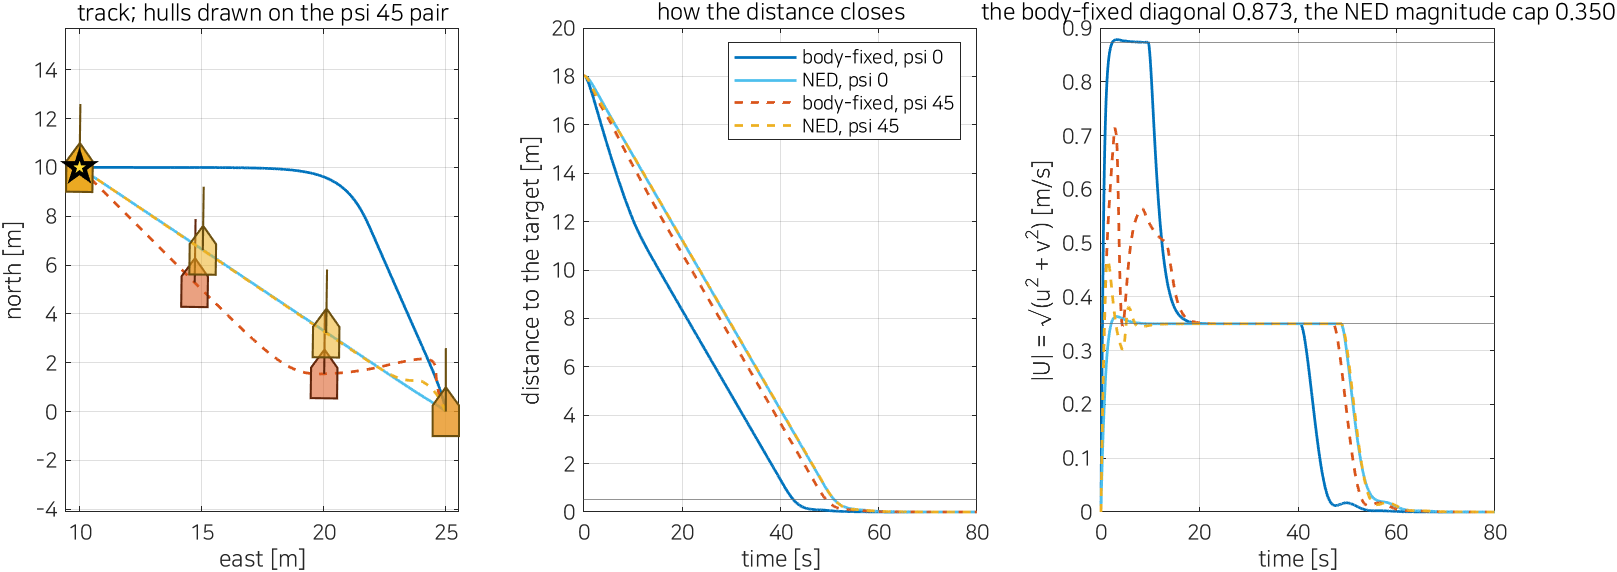
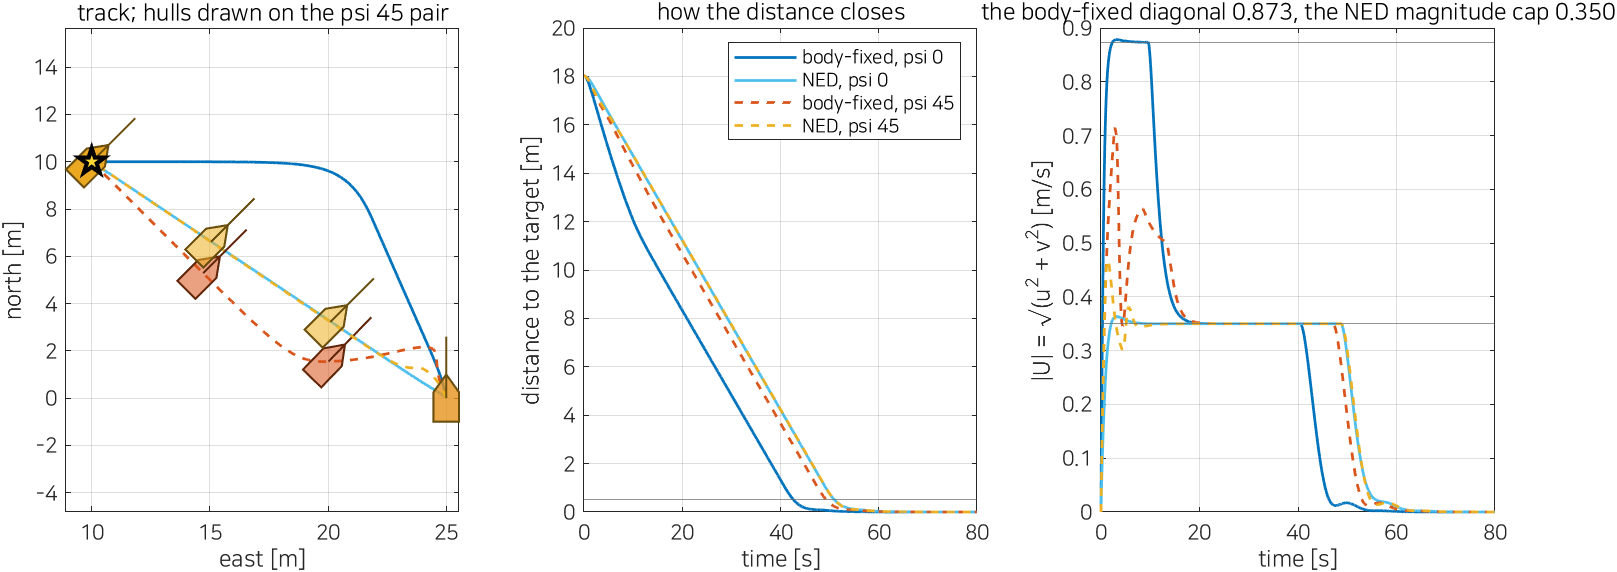
Sections 6-5 and 6-6, and the hull heading the figures had been hiding
W06_G_berthing runs the four-phase mission twice, alongside and bow-first,
and measures what the attitude costs and buys: phase 1 is identical in both
columns at 53.04 s because psi_berth is not read until phase 2; the ALIGN leg
costs bow-first 2.88 s extra for 67.6 deg instead of 22.4 deg; the BERTH leg
gives 11.54 s back, and the 8.66 s total gap is exactly that difference. The
section 6-4 braking law predicts 24.15 s against 23.00 s measured and 12.16 s
against 11.46 s. Phase 3 separates the two attitudes completely: alongside is
sway-limited at the 35.13 N cap, bow-first is surge-limited at 120.00 N.

track_ships takes psi in DEGREES and converts internally before calling
draw_ship, which takes radians. The logged psi is already in degrees, because
add_measurement puts the 180/pi gain on the psi row alone. Four call sites
were multiplying by pi/180 first, so every hull was drawn at a 57th of its
true angle and pointed north in every case. W06_plot carried a comment
asserting the opposite, which is how the error reached the other three
scripts; the comment is now what the code does. With the conversion gone the
sway-only run shows the crab, the yaw-only run visibly spins through 184 deg,
the moored hulls differ by the 90 deg that section 6-6 exists to demonstrate,
and the psi 45 pair leans into its heading.

The berth star is drawn after the hull glyphs, small: the two runs stop on
that point, so a marker underneath them disappears and a large one buries a bow.

diff --git a/lectures/W06_simulink/W06_G_berthing.m b/lectures/W06_simulink/W06_G_berthing.m
@@ -1,0 +1,194 @@
+%% W06 · 실험 6-5/6-6 — 단계로 접안한다 / Experiment 6-5/6-6 — berthing, phase by phase
+%
+%  이 절이 묻는 것 / the question
+%      6-3 절의 고리 셋은 **한 점**을 잡는다. 접안은 점 하나가 아니다 — 먼 바다에서
+%      접근점까지 가고, 거기서 돌고, 그 선수각을 지킨 채 벽으로 붙고, 붙은 뒤에는
+%      추력을 끊어야 한다. 제어기를 한 줄도 고치지 않고 **목표점과 선수각을 언제
+%      바꿔 줄 것인가**만 정하는 블록 하나로 그것이 되는가? 그리고 벽에 **옆으로**
+%      붙는 것과 **뱃머리부터** 붙는 것은 무엇이 다른가?
+%      The three loops of Section 6-3 hold ONE point. Berthing is not one point:
+%      the hull must run to an approach point, turn there, close the last metres
+%      on that heading, and then cut the thrust. This section asks whether a
+%      single block that decides WHEN to move the target and the heading is
+%      enough, with not one gain touched -- and what separates coming in
+%      sideways from coming in bow-first.
+%
+%  이 스크립트가 하는 일 / what this script does
+%      ① W06_H_berth 를 두 번 돌린다. 달라지는 것은 psi_berth 하나다 —
+%         0 도(옆으로 붙는다)와 -90 도(뱃머리부터 붙는다).
+%      ② 네 단계가 각각 언제 시작해 얼마나 걸렸는지, 그때 배가 어디 있었는지를
+%         단계마다 한 줄로 낸다.
+%      ③ 두 접안 자세를 한 표로 견준다 — 다리별 시간, **3 단계에서만** 재는 전후·
+%         좌우 요구와 포화 비율, 마지막 거리, 계류 뒤의 떠내림.
+%      ① Runs W06_H_berth twice. One thing differs: psi_berth, 0 deg (alongside)
+%         and -90 deg (bow into the wall).
+%      ② Prints one line per phase: when it began, how long it lasted, and where
+%         the hull was at that instant.
+%      ③ Tables the two attitudes against each other -- the time in each leg,
+%         the surge and sway demands measured OVER PHASE 3 ALONE and how much of
+%         that leg sat on the sway cap, the distance left, and the drift after
+%         the gate closes.
+%
+%  출력에서 볼 것 / what to look for in the output
+%      · 1 단계는 **두 경우가 같다** — 53.04 s. psi_berth 는 2 단계부터 비로소
+%        쓰이므로, 두 열의 차이는 전부 뒤쪽 두 다리에서 나온다
+%      · 넘어가는 순간 d 가 **1.49 m 에서 7.28 m 로 뛴다.** 배가 뒤로 간 것이
+%        아니라 목표점이 접근점에서 안벽으로 바뀐 것이다. 제어기는 그대로다
+%      · 2 단계: 2.62 s 대 5.50 s. 뱃머리부터 붙으려면 67.6 도를 더 돌아야 하고
+%        그 값이 2.88 s 다
+%      · 3 단계: 23.00 s 대 11.46 s. 옆으로 붙는 쪽은 7.28 m 를 **좌우로** 가며
+%        35.13 N 포화에 눌려 있고, 뱃머리 쪽은 7.06 m 를 **전후로** 가며 120 N 을
+%        쓴다. 11.54 s 가 거기서 갈린다
+%      · 합: 78.66 s 대 70.00 s. 차이 8.66 s = 11.54 - 2.88 로 **정확히** 맞는다
+%      · 둘 다 R_berth = 0.40 m 안에서 멈추고 선수각 오차는 0.00 도다.
+%        4 단계에서 gate 가 0 이 되면 속도 명령이 0 이고, 남은 시간 내내 떠내림은
+%        센티미터 급이다
+%      · Phase 1 is IDENTICAL in both columns -- 53.04 s. psi_berth is not read
+%        until phase 2, so every difference comes from the last two legs.
+%      · At the hand-over d JUMPS from 1.49 m to 7.28 m. The hull did not move
+%        backwards; the target was replaced, approach point by berth. Not one
+%        gain changed.
+%      · Phase 2: 2.62 s against 5.50 s. Bow-first must turn 67.6 deg further,
+%        and that costs 2.88 s.
+%      · Phase 3: 23.00 s against 11.46 s. Alongside crosses the last 7.28 m
+%        SIDEWAYS, pinned on the 35.13 N sway cap; bow-first crosses 7.06 m
+%        AHEAD on 120 N. That is where 11.54 s is won.
+%      · Totals: 78.66 s against 70.00 s. The 8.66 s gap is 11.54 - 2.88 exactly.
+%      · Both stop inside R_berth = 0.40 m with 0.00 deg of heading error. Once
+%        the gate drops to 0 in phase 4 the velocity command is zero and the
+%        hull drifts only centimetres for the rest of the run.
+%
+%  만드는 것 / produces: img/W06_result_berth.png
+
+%% 0) 경로 / paths
+here = fileparts(mfilename('fullpath'));
+addpath(fullfile(fileparts(fileparts(here)), '_tools'), here);
+
+V  = W06_vars();
+PH = {'1 TRANSIT', '2 ALIGN', '3 BERTH', '4 MOORED'};
+C  = {'alongside', 0,     [0 0.45 0.74]
+      'bow-first', -pi/2, [0.85 0.33 0.10]};
+n  = size(C,1);
+Rs = cell(n,1);   TE = nan(n,4);   DUR = nan(n,4);
+
+%% 1) 네 단계 / the four phases
+fprintf(['\n  W06 Experiment 6-5/6-6  berthing at (%g, %g) m from (%g, %g) m,' ...
+         ' approach point (%g, %g) m\n'], V.berth_N, V.berth_E, V.x0(7), V.x0(8), ...
+        V.app_N, V.app_E);
+for i = 1:n
+    Rs{i} = W06_read('W06_H_berth', 'psi_berth', C{i,2}, ...
+                     'bow_on', double(C{i,2} ~= 0), 'T_final', 150);
+    R = Rs{i};
+    fprintf(['\n    %s, psi_berth = %+.0f deg\n' ...
+             '    phase        enters [s]   lasts [s]   N [m]   E [m]   psi [deg]' ...
+             '   to berth [m]   d the loop sees [m]\n'], C{i,1}, rad2deg(C{i,2}));
+    for p = 1:4
+        k = find(R.phase >= p, 1);
+        if isempty(k), fprintf('    %-11s   %10s\n', PH{p}, 'never'); continue, end
+        TE(i,p) = R.t(k);
+        kn = find(R.phase >= p+1, 1);
+        if isempty(kn), DUR(i,p) = R.t(end) - R.t(k); else, DUR(i,p) = R.t(kn) - R.t(k); end
+        fprintf('    %-11s   %10.2f   %9.2f   %5.2f   %5.2f   %9.2f   %12.3f   %18.3f\n', ...
+                PH{p}, TE(i,p), DUR(i,p), R.N(k), R.E(k), R.psi(k), ...
+                hypot(R.N(k) - V.berth_N, R.E(k) - V.berth_E), R.d(k));
+    end
+end
+
+%% 2) 옆으로 붙는가, 뱃머리부터 붙는가 / alongside or bow-first
+%   3 단계의 다리 시간은 6-4 절의 제동 법칙이 예측한다 — 속도 한계로 가는 구간
+%   d/v_cap 에 멈추는 데 드는 1/Kp_pos 를 더한 것이다 / phase 3's length is
+%   predicted by the braking law of Section 6-4: d/v_cap to run in, plus 1/Kp_pos
+%   to stop.
+fprintf(['\n    attitude    transit [s]   align [s]   turn asked [deg]   berth [s]' ...
+         '   d/v_cap + 1/K_p,pos [s]   moored at [s]\n']);
+for i = 1:n
+    R = Rs{i};   k3 = find(R.phase >= 3, 1);
+    vcap = V.u_lim*(C{i,2} ~= 0) + V.v_lim*(C{i,2} == 0);
+    fprintf('    %-9s   %11.2f   %9.2f   %16.1f   %9.2f   %23.2f   %13.2f\n', ...
+            C{i,1}, DUR(i,1), DUR(i,2), ...
+            abs(rad2deg(C{i,2}) - R.psi(find(R.phase >= 2, 1))), DUR(i,3), ...
+            R.d(k3)/vcap + 1/V.Kp_pos, TE(i,4));
+end
+fprintf(['\n    attitude    berth max |X| [N]   berth max |Y| [N]' ...
+         '   on the Y cap [%% of leg]   berth max |u|   berth max |v|' ...
+         '   d(end) [m]   drift [m]   psi err [deg]\n']);
+for i = 1:n
+    R = Rs{i};   m3 = R.phase == 3;   k4 = find(R.phase >= 4, 1);
+    fprintf(['    %-9s   %17.2f   %17.2f   %22.1f   %13.3f   %13.3f   %10.3f' ...
+             '   %9.3f   %13.2f\n'], C{i,1}, max(abs(R.X_dem(m3))), ...
+            max(abs(R.Y_dem(m3))), 100*mean(R.Y_clip(m3)), max(abs(R.u(m3))), ...
+            max(abs(R.v(m3))), hypot(R.N(end) - V.berth_N, R.E(end) - V.berth_E), ...
+            R.d(end) - R.d(k4), rad2deg(atan2(sind(R.psi(end) - R.psi_set(end)), ...
+                                              cosd(R.psi(end) - R.psi_set(end)))));
+end
+fprintf(['    the caps: X_max = %.0f N, Y_max = %.2f N, u_lim = %.2f m/s,' ...
+         ' v_lim = %.2f m/s,  R_berth = %.2f m,  K_p,pos = %.2f\n'], V.X_max, ...
+        V.Y_max, V.u_lim, V.v_lim, V.R_berth, V.Kp_pos);
+
+%% 3) 그림 / the figure
+f = lab_fig('W06 G  berthing', 1180, 700);
+subplot(2,3,1); hold on; grid on; axis equal;
+fill([V.quay_E V.track_Emin V.track_Emin V.quay_E], ...
+     [V.track_Nmin V.track_Nmin V.track_Nmax V.track_Nmax], [.85 .85 .85], ...
+     'EdgeColor', [.5 .5 .5]);
+plot(V.app_E, V.app_N, 'ko', 'MarkerSize', 7);
+for i = 1:n
+    R = Rs{i};   plot(R.E, R.N, 'Color', C{i,3}, 'LineWidth', 1.3);
+    %   선체는 접안을 마친 순간 하나만 — 두 자세의 차이는 그 하나에 다 있다
+    k4 = find(R.phase >= 4, 1);
+    %   track_ships 는 **도**를 받는다 (안에서 deg2rad 한다). 로그의 psi 가 이미 도다
+    track_ships({[R.N(k4) R.E(k4) R.psi(k4)]}, C{i,3}, 'Marks', 1);
+end
+%   접안점은 선체보다 **뒤에**, 그러나 작게 — 멈춘 선체가 바로 그 점 위에 있으므로
+%   큰 표지는 선체를 가리고, 선체 아래에 두면 표지가 사라진다
+plot(V.berth_E, V.berth_N, 'kp', 'MarkerSize', 9, 'MarkerFaceColor', [1 0.85 0.2]);
+xlim([V.track_Emin 13]); ylim([33 45]);
+xlabel('east [m]'); ylabel('north [m]');
+title('the hull as moored.   circle: approach.   star: berth');
+
+subplot(2,3,2); hold on; grid on;
+for i = 1:n, stairs(Rs{i}.t, Rs{i}.phase, 'Color', C{i,3}, 'LineWidth', 1.3); end
+ylim([0.5 4.5]); yticks(1:4); yticklabels(PH); xlim([0 100]);
+xlabel('time [s]'); title('the phase: latched, and it only ever rises');
+
+subplot(2,3,3); hold on; grid on;
+for i = 1:n, plot(Rs{i}.t, Rs{i}.d, 'Color', C{i,3}, 'LineWidth', 1.3); end
+yline(V.R_app, 'k--'); yline(V.R_berth, 'k:');
+set(gca, 'YScale', 'log'); ylim([0.1 60]); xlim([0 100]);
+xlabel('time [s]'); ylabel('d to the active target [m]');
+title(sprintf('dashed R_{app} = %.1f m, dotted R_{berth} = %.2f m', V.R_app, V.R_berth));
+legend(C(:,1), 'Location', 'southwest');
+
+subplot(2,3,4); hold on; grid on;
+for i = 1:n
+    plot(Rs{i}.t, Rs{i}.psi, 'Color', C{i,3}, 'LineWidth', 1.3);
+    plot(Rs{i}.t, Rs{i}.psi_set, '--', 'Color', C{i,3});
+end
+xlim([0 100]); ylim([-100 10]); xlabel('time [s]'); ylabel('\psi [deg]');
+title('solid: the heading.   dashed: asked');
+
+subplot(2,3,5); hold on; grid on;
+for i = 1:n
+    plot(Rs{i}.t - TE(i,3), Rs{i}.X_dem, 'Color', C{i,3}, 'LineWidth', 1.3);
+    plot(Rs{i}.t - TE(i,3), Rs{i}.Y_dem, '--', 'Color', C{i,3});
+end
+%   한계선은 그 선을 묶는 신호와 같은 모양으로 — 실선 X 는 회색 실선, 파선 Y 는 점선
+yline([-V.X_max V.X_max], '-', 'Color', [.45 .45 .45], 'LineWidth', 0.9);
+yline([-V.Y_max V.Y_max], 'k:'); xlim([0 30]); xlabel('time since phase 3 began [s]');
+ylabel('demand [N]');
+title(sprintf('solid X, dashed Y.   grey \\pm%.0f, dotted \\pm%.2f N', ...
+              V.X_max, V.Y_max));
+
+subplot(2,3,6); hold on; grid on;
+for i = 1:n
+    plot(Rs{i}.t - TE(i,3), Rs{i}.u, 'Color', C{i,3}, 'LineWidth', 1.3);
+    plot(Rs{i}.t - TE(i,3), Rs{i}.v, '--', 'Color', C{i,3});
+end
+yline([-V.u_lim V.u_lim], '-', 'Color', [.45 .45 .45], 'LineWidth', 0.9);
+yline([-V.v_lim V.v_lim], 'k:'); xlim([0 30]);
+xlabel('time since phase 3 began [s]'); ylabel('speed [m/s]');
+title(sprintf('solid u, dashed v.   grey \\pm%.2f, dotted \\pm%.2f m/s', ...
+              V.u_lim, V.v_lim));
+
+%% 4) 그림을 저장한다 / save the figure
+exportgraphics(f, fullfile(here, 'img', 'W06_result_berth.png'), 'Resolution', 150);

diff --git a/lectures/W06_simulink/W06_plot.m b/lectures/W06_simulink/W06_plot.m
@@ -68,10 +68,10 @@ X_max = base_var('X_max', 120);
 Y_max = base_var('Y_max', 35.13);
 quay_E = base_var('quay_E', 0);
 
-%  선체를 그리는 쪽은 **라디안**을 받는다 (track_ships → draw_ship). 로그의 psi 는
-%  도이므로 여기서 한 번만 되돌린다 / the hull drawing takes RADIANS; the logged
-%  psi is in degrees, so it is converted here once
-psi_r = psi * pi/180;
+%  track_ships 는 psi 를 **도**로 받는다 — 안에서 deg2rad 한 뒤 라디안을 받는
+%  draw_ship 에 넘긴다. add_measurement 는 psi 행에만 180/pi 를 걸므로 로그의
+%  psi 는 이미 도다. 그대로 넘긴다 / track_ships takes psi in DEGREES and
+%  converts internally; the logged psi is already in degrees
 
 %  단계가 바뀐 시각. 단계가 없는 모델에서는 빈 벡터다 / when the phase changed
 ph = t([false; diff(phase) ~= 0]);
@@ -116,7 +116,7 @@ if any(isfinite(N_set))
          'MarkerEdgeColor', [0.75 0.10 0.10], 'MarkerFaceColor', [0.95 0.75 0.75]);
 end
 plot(E, N, 'Color', [0 0.45 0.74], 'LineWidth', 1.3);
-track_ships({[N E psi_r]}, [0 0.45 0.74], 'Marks', 12);
+track_ships({[N E psi]}, [0 0.45 0.74], 'Marks', 12);
 xlabel('east [m]');  ylabel('north [m]');
 title({'the track, with the hull and its heading', ...
        '\color[rgb]{0.35,0.25,0.15}\bfthe quay is the thick line at E = 0'});

diff --git a/lectures/W06_simulink/W06_C_three_axes.m b/lectures/W06_simulink/W06_C_three_axes.m
@@ -92,7 +92,8 @@ for i = 1:size(D,1)
     R = Rs{i};  c = D{i,2};
     subplot(2, 4, i); hold on; grid on; axis equal;
     plot(R.E, R.N, 'Color', [0 0.45 0.74], 'LineWidth', 1.3);
-    track_ships({[R.N R.E R.psi*pi/180]}, [0 0.45 0.74], 'Marks', 5);
+    %   track_ships 는 **도**를 받는다 (안에서 deg2rad 한다). 로그의 psi 가 이미 도다
+    track_ships({[R.N R.E R.psi]}, [0 0.45 0.74], 'Marks', 5);
     xlim(c0(2) + [-half half]);  ylim(c0(1) + [-half half]);
     xlabel('east [m]');  if i == 1, ylabel('north [m]'); end
     title(sprintf('%s\n\\tau = [%g %g %g]', D{i,1}, c(1), c(2), c(3)));

diff --git a/lectures/W06_simulink/W06_I_two_frames.m b/lectures/W06_simulink/W06_I_two_frames.m
@@ -167,7 +167,8 @@ subplot(1,3,1); hold on; grid on; axis equal;
 for i = 1:size(C,1)
     R = Rs{i};
     plot(R.E, R.N, 'Color', C{i,4}, 'LineStyle', C{i,5}, 'LineWidth', 1.3);
-    if i >= 3, track_ships({[R.N R.E R.psi*pi/180]}, C{i,4}, 'Marks', 4); end
+    %   track_ships 는 **도**를 받는다 (안에서 deg2rad 한다). 로그의 psi 가 이미 도다
+    if i >= 3, track_ships({[R.N R.E R.psi]}, C{i,4}, 'Marks', 4); end
 end
 plot(p_d(2), p_d(1), 'kp', 'MarkerSize', 13, 'MarkerFaceColor', [1 0.85 0.2]);
 xlabel('east [m]'); ylabel('north [m]');

diff --git a/lectures/W06_simulink/W06_E_holding_a_point.m b/lectures/W06_simulink/W06_E_holding_a_point.m
@@ -86,7 +86,8 @@ subplot(1,3,1); hold on; grid on; axis equal;
 for i = 1:size(C,1)
     R = Rs{i};
     plot(R.E, R.N, 'Color', C{i,3}, 'LineWidth', 1.3);
-    track_ships({[R.N R.E R.psi*pi/180]}, C{i,3}, 'Marks', C{i,4});
+    %   track_ships 는 **도**를 받는다 (안에서 deg2rad 한다). 로그의 psi 가 이미 도다
+    track_ships({[R.N R.E R.psi]}, C{i,3}, 'Marks', C{i,4});
 end
 plot(p_d(2), p_d(1), 'kp', 'MarkerSize', 13, 'MarkerFaceColor', [1 0.85 0.2]);
 xlabel('east [m]'); ylabel('north [m]'); title('track, with the target marked');
